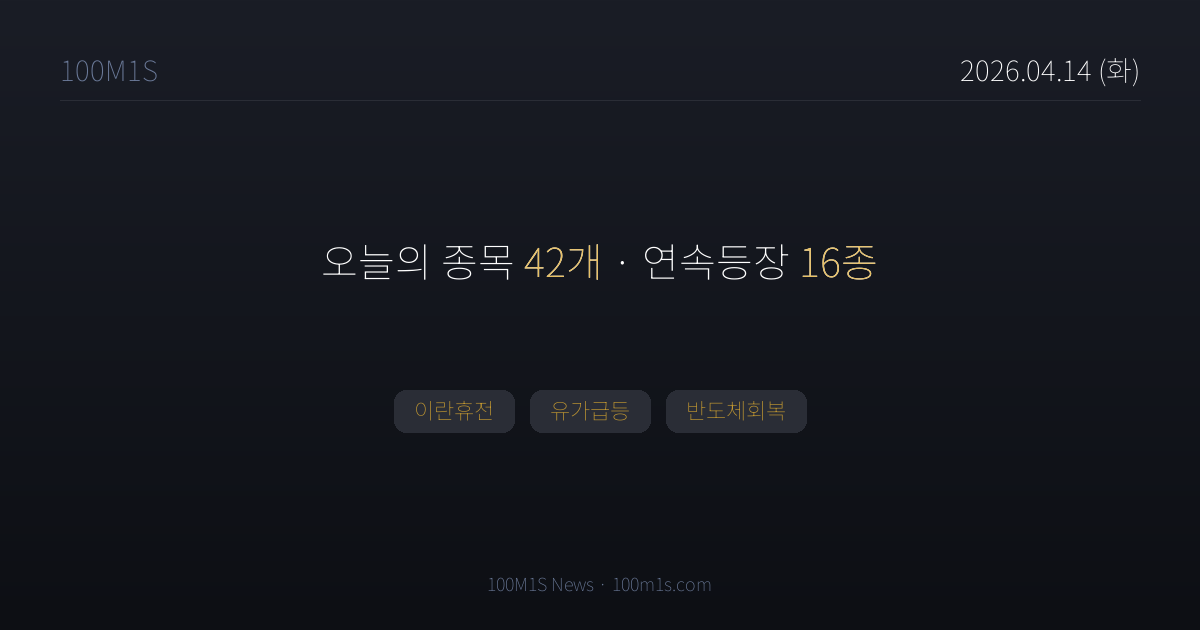
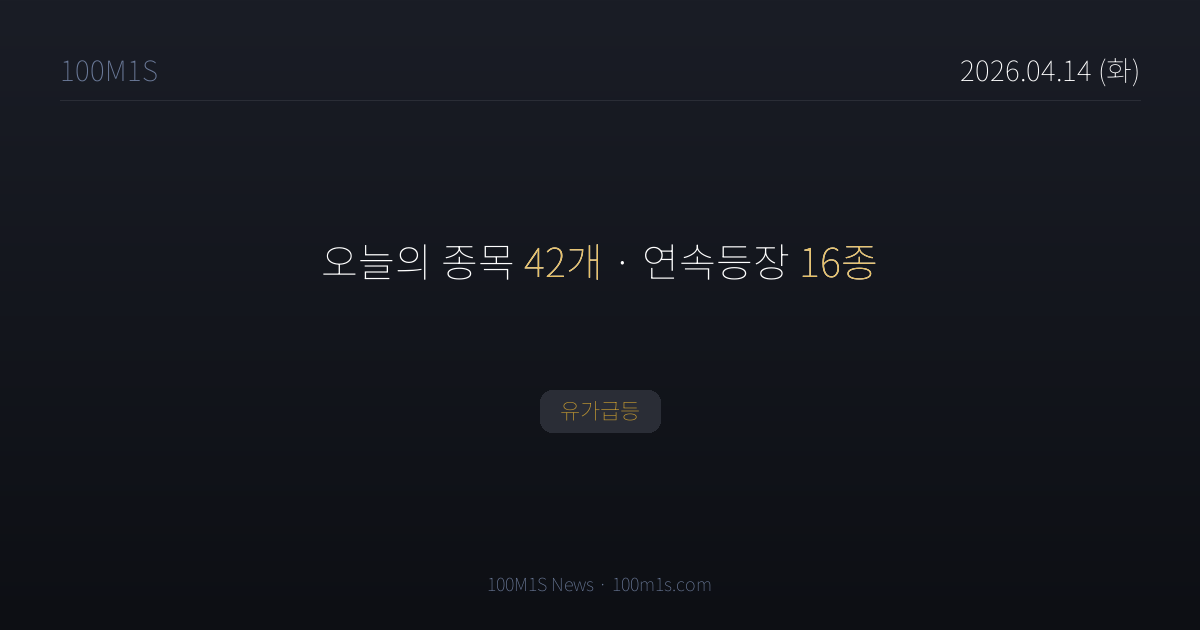
chore(news): 2026-04-14T20:27 pipeline

Changed region(s): [[0.3083, 0.6032, 0.6783, 0.6937]]

diff --git a/news/2026-04-14.html b/news/2026-04-14.html
@@ -4,7 +4,7 @@
 <meta charset="UTF-8">
 <title>4월 14일 (화) 뉴스 — 100M1S</title>
 <meta property="og:title" content="4월 14일 (화) · 종목 42개">
-<meta property="og:description" content="이란휴전, 유가급등, 반도체회복">
+<meta property="og:description" content="유가급등">
 <meta property="og:image" content="https://100m1s.com/og/2026-04-14.png">
 <meta property="og:image:width" content="1200">
 <meta property="og:image:height" content="630">
